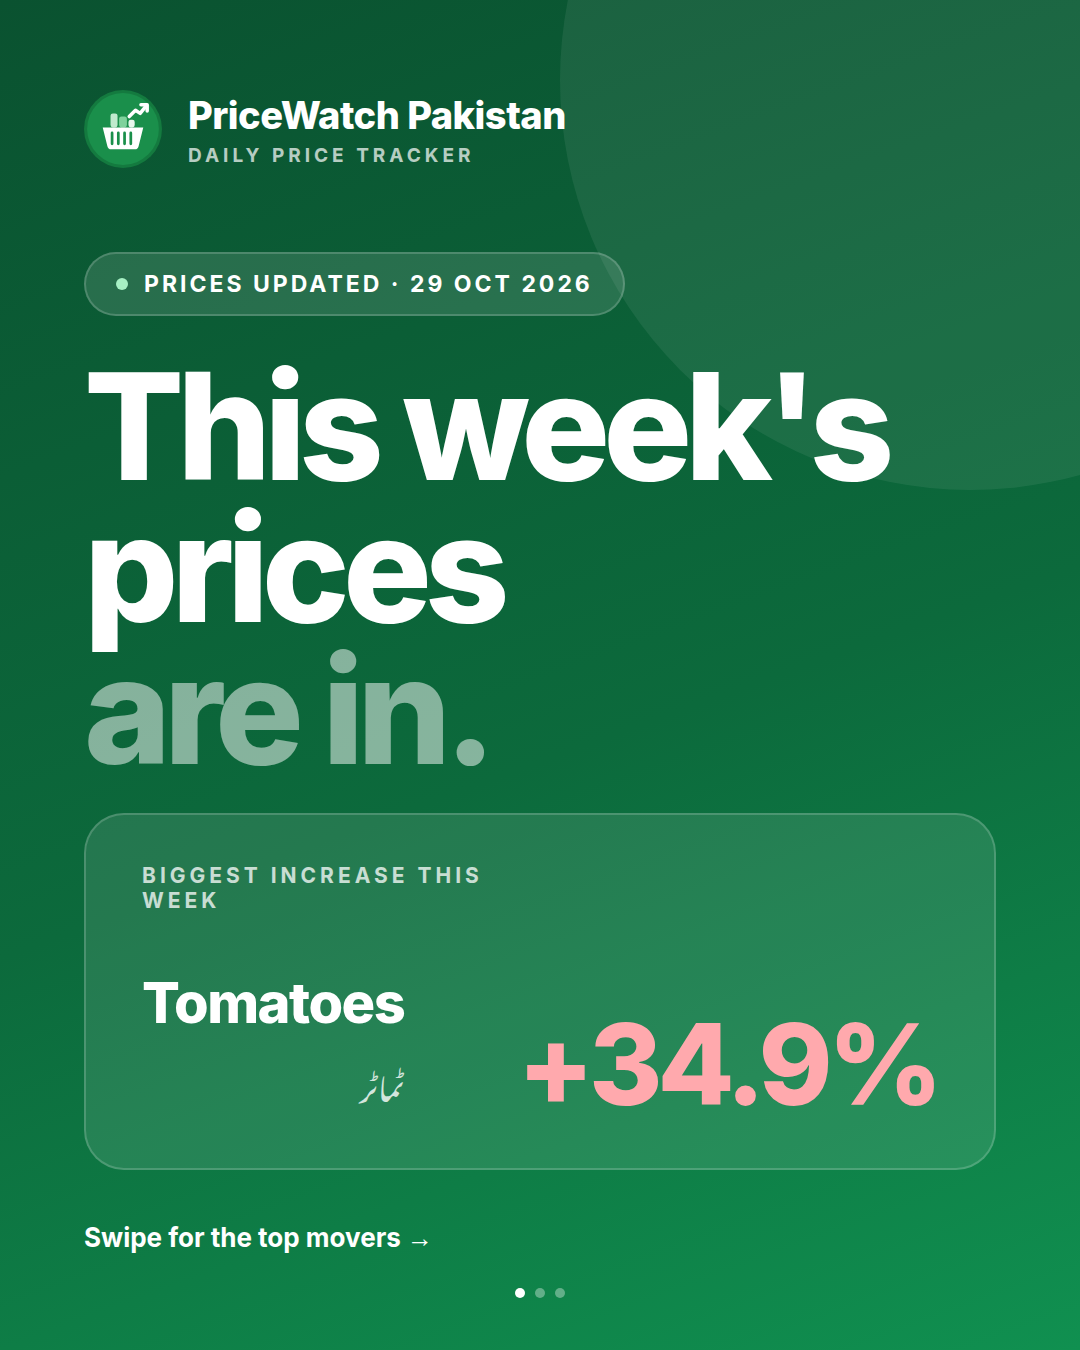
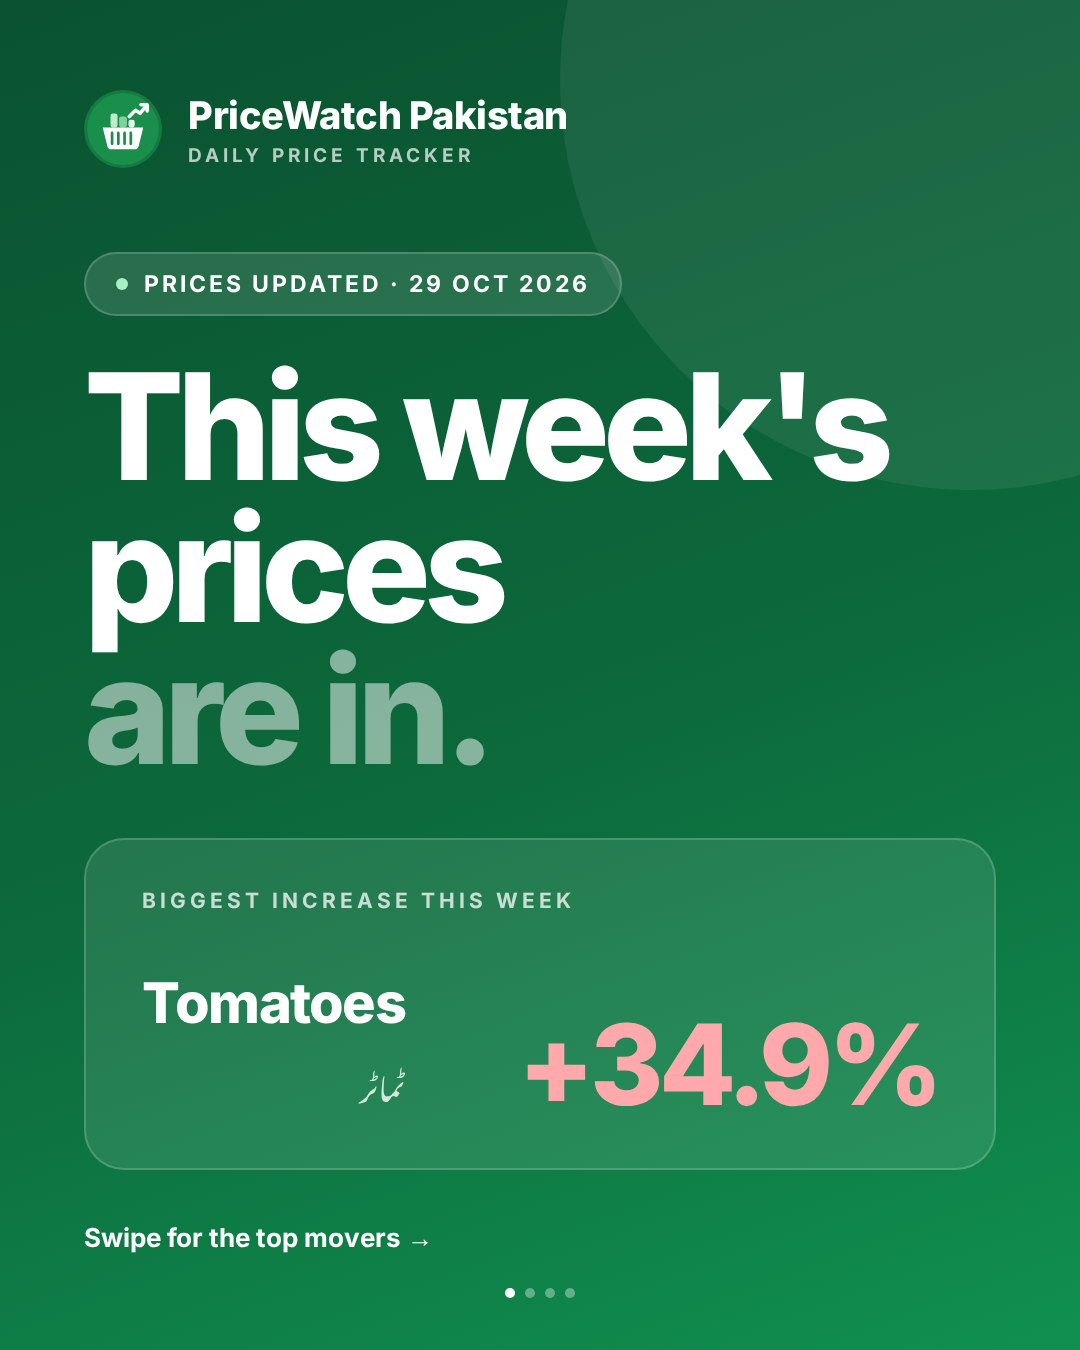
This week's Instagram post with 1,000+ users milestone slide; optional MILESTONE slide in generator
Claude-Session: https://claude.ai/code/session_01V6zyMSLKNYx3EC5N4CM4T8

diff --git a/instagram/head.html b/instagram/head.html
@@ -22,7 +22,7 @@ body{background:#222;font-family:Inter,sans-serif}
 .hero{margin-top:40px;font-weight:800;font-size:148px;line-height:.96;letter-spacing:-7px}
 .hero .dim{color:rgba(255,255,255,.5)}
 .big{position:absolute;left:84px;right:84px;bottom:180px;padding:48px 56px;border-radius:40px;background:rgba(255,255,255,.1);border:2px solid rgba(255,255,255,.18);display:flex;justify-content:space-between;align-items:flex-end}
-.big .lab{font-weight:700;font-size:21px;letter-spacing:4px;opacity:.75;margin-bottom:56px}
+.big .lab{white-space:nowrap;width:0;overflow:visible;font-weight:700;font-size:21px;letter-spacing:4px;opacity:.75;margin-bottom:56px}
 .big .item{font-weight:800;font-size:56px;letter-spacing:-1.5px}
 .big .ur{font-size:30px;opacity:.8;margin-top:8px;text-align:right}
 .big .nmw{display:inline-block}
